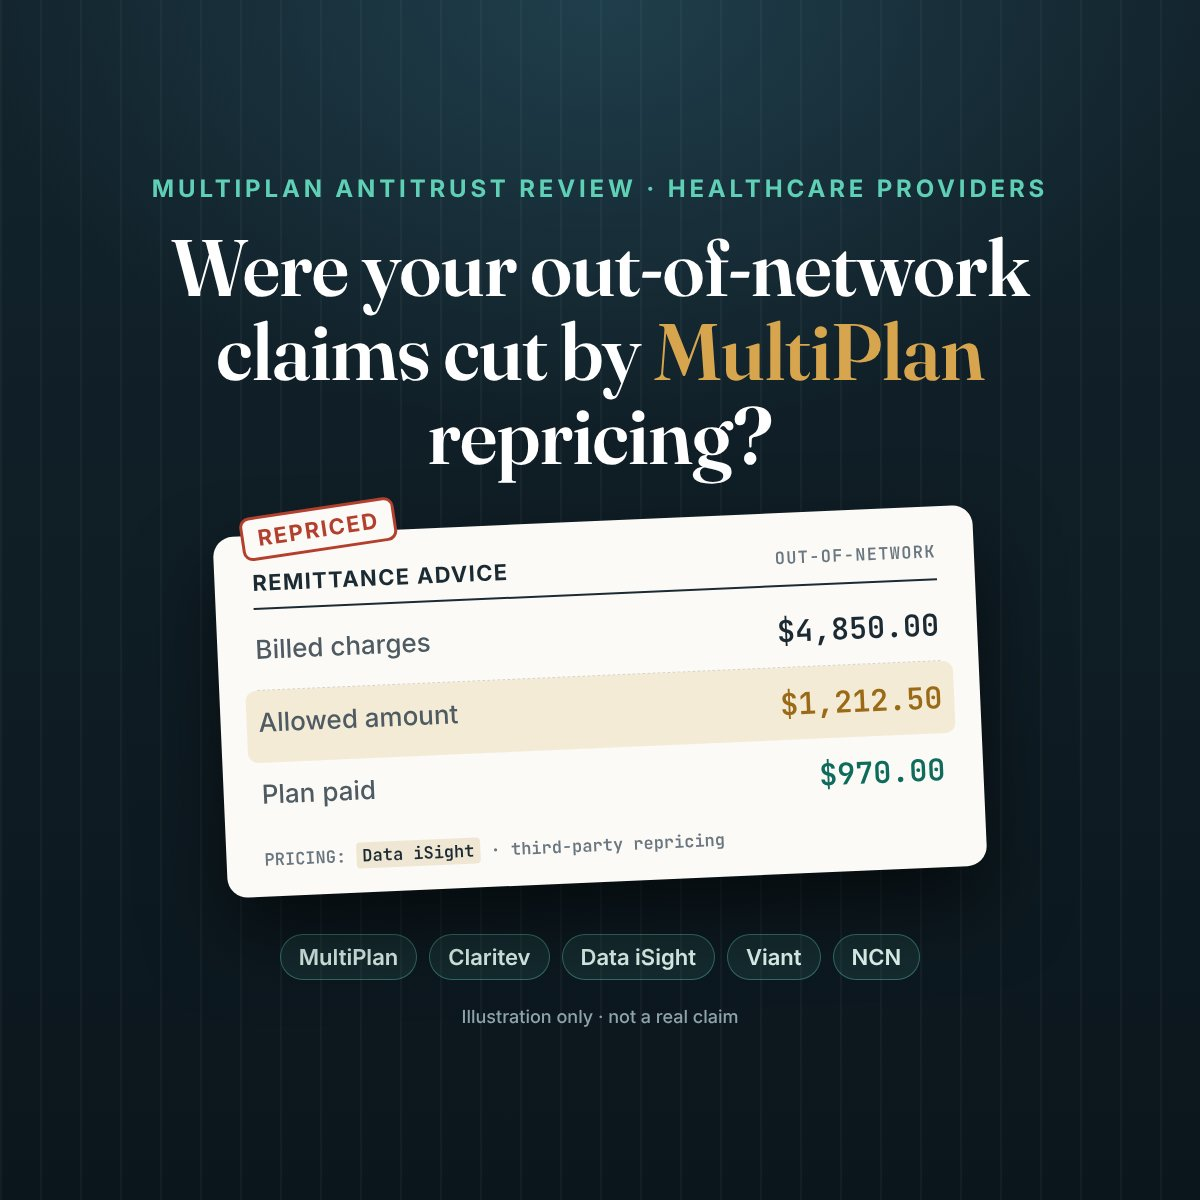
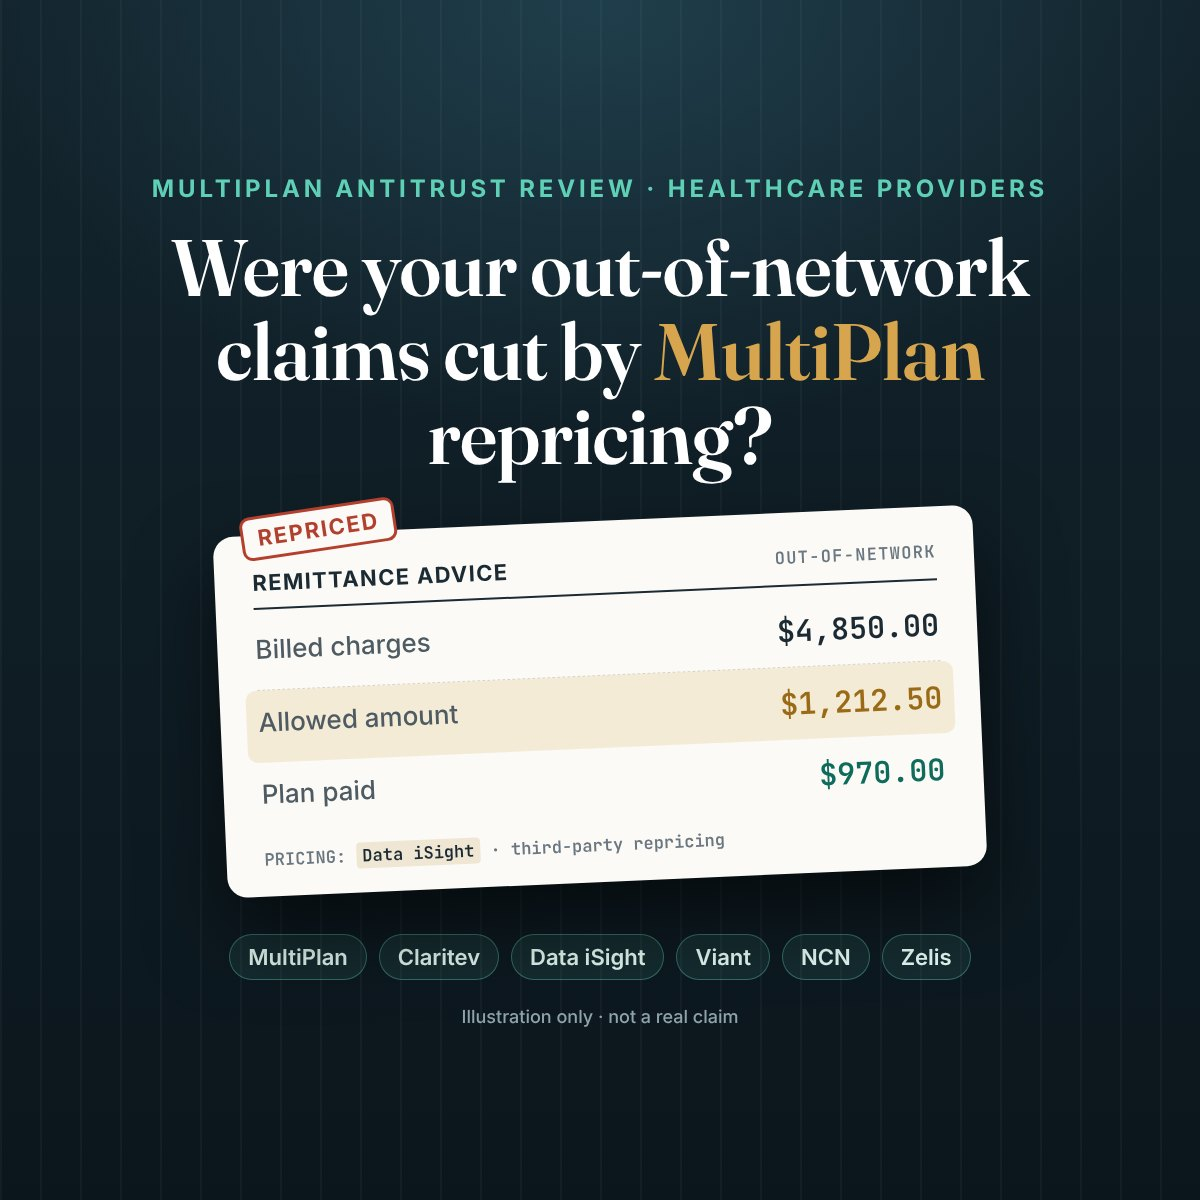
BTL MultiPlan: add Zelis, set thank-you expectation
- Zelis added to the remit chips, the who-qualifies bullet, the footer
  disclaimer and both share images (1200x630, 1200x1200).
- Thank-you step: "Devin's team will reach out shortly to schedule your
  call." Tier C (below $1M) is told the team will review and reach out
  if it fits, since only Tier A/B are emailed to the firm.

Claude-Session: https://claude.ai/code/session_015mggQXmXMJeJEzWMvFZhpm

Changed region(s): [[0.185, 0.7708, 0.8017, 0.8325]]

diff --git a/btl/vanderhahn/multiplan/index.html b/btl/vanderhahn/multiplan/index.html
@@ -251,7 +251,7 @@ footer a{color:#dbe6ea}
     <p class="eyebrow">MultiPlan antitrust review · For healthcare providers</p>
     <h1>Were your out-of-network claims cut by <em>MultiPlan</em> repricing?</h1>
     <p class="lede">Lawsuits allege MultiPlan (now Claritev) and major insurers worked together to push out-of-network payments down. Billed commercial plans out-of-network in <span style="white-space:nowrap">2015–2026?</span> Answer 3 quick questions to see if your practice may qualify.</p>
-    <div class="seen"><span>Seen these on your remits?</span><b>MultiPlan</b><b>Claritev</b><b>Data iSight</b><b>Viant</b><b>NCN</b></div>
+    <div class="seen"><span>Seen these on your remits?</span><b>MultiPlan</b><b>Claritev</b><b>Data iSight</b><b>Viant</b><b>NCN</b><b>Zelis</b></div>
     <div class="byline">
       <picture><source srcset="images/devin-avatar.webp" type="image/webp"><img src="images/devin-avatar.jpg" alt="Devin van der Hahn" width="46" height="46"></picture>
       <div><strong>Devin van der Hahn</strong><span>Managing Partner &amp; Founder, VanderHahn LLP</span></div>
@@ -348,7 +348,7 @@ footer a{color:#dbe6ea}
       <div class="step" data-step="done">
         <span class="result-badge">✓ Request received</span>
         <h3>Thanks. Devin's office has your details.</h3>
-        <p class="hint" id="doneMsg">You'll hear from Devin's office about confirming the criteria and setting up a time.</p>
+        <p class="hint" id="doneMsg">Devin's team will reach out shortly to schedule your call. Watch for a call or email from VanderHahn LLP.</p>
         <p class="hint" style="font-size:.8rem">Reference: <b id="receiptId">—</b></p>
         <a class="btn block" id="bookBtn" href="#" hidden>Pick a time with Devin →</a>
         <div class="ready" style="margin-top:18px"><b>Good to have ready for the call</b>
@@ -441,7 +441,7 @@ footer a{color:#dbe6ea}
         <p>Lawsuits allege that MultiPlan, now Claritev, and major insurers used shared repricing tools to push out-of-network payments down for more than a decade, costing providers billions of dollars.</p>
         <ul class="points">
           <li><svg width="18" height="18" viewBox="0 0 24 24" fill="none" stroke="currentColor" stroke-width="2.5"><path d="M20 6 9 17l-5-5"/></svg><span>Billed commercial health plans out-of-network between 2015 and 2026</span></li>
-          <li><svg width="18" height="18" viewBox="0 0 24 24" fill="none" stroke="currentColor" stroke-width="2.5"><path d="M20 6 9 17l-5-5"/></svg><span>MultiPlan, Claritev, Data iSight, Viant or NCN on your remits, or allowed amounts far below what you billed</span></li>
+          <li><svg width="18" height="18" viewBox="0 0 24 24" fill="none" stroke="currentColor" stroke-width="2.5"><path d="M20 6 9 17l-5-5"/></svg><span>MultiPlan, Claritev, Data iSight, Viant, NCN or Zelis on your remits, or allowed amounts far below what you billed</span></li>
           <li><svg width="18" height="18" viewBox="0 0 24 24" fill="none" stroke="currentColor" stroke-width="2.5"><path d="M20 6 9 17l-5-5"/></svg><span>About $1 million a year in billed charges is a guide, not a hard cutoff</span></li>
           <li><svg width="18" height="18" viewBox="0 0 24 24" fill="none" stroke="currentColor" stroke-width="2.5"><path d="M20 6 9 17l-5-5"/></svg><span>Physician groups, facilities, labs and ambulance services can all fit</span></li>
         </ul>
@@ -498,7 +498,7 @@ footer a{color:#dbe6ea}
   <div class="wrap">
     <p><strong style="color:#fff">Attorney advertising.</strong> Responsible attorney: Devin van der Hahn, VanderHahn LLP. Best Tort Lawyers is a matching and intake service run by Marketing Apes LLC. It is not a law firm and gives no legal advice.</p>
     <p>This page doesn't show that a provider has a claim. The firm decides on review and representation itself. Submitting this form doesn't create an attorney-client relationship. No recovery or outcome is guaranteed, and prior results don't guarantee a similar outcome.</p>
-    <p>MultiPlan, Claritev, Data iSight, Viant and NCN are named only to describe the subject of the review. Descriptions of the litigation are allegations, not findings. This page isn't affiliated with or endorsed by any of them or by any health plan.</p>
+    <p>MultiPlan, Claritev, Data iSight, Viant, NCN and Zelis are named only to describe the subject of the review. Descriptions of the litigation are allegations, not findings. This page isn't affiliated with or endorsed by any of them or by any health plan.</p>
     <div class="flinks">
       <a href="https://besttortlawyers.com/privacy-policy/">Privacy policy</a>
       <a href="https://besttortlawyers.com/terms-and-conditions/">Terms</a>
@@ -626,6 +626,7 @@ footer a{color:#dbe6ea}
           document.querySelector('[data-step=done] h3').textContent='You look like a strong fit. Pick a time with Devin.';
           document.getElementById('doneMsg').textContent='Choose a time that works for you below. Devin’s office will confirm the details before the call.';
           track('ee_booking_offered',{prequal_tier:tier},true); }
+        if(tier==='C') document.getElementById('doneMsg').textContent='Devin\u2019s team will review your answers and reach out if your organization fits this review.';
         show('done');
       })
       .catch(function(x){ if(to) clearTimeout(to); track('ee_lead_submit_error',{error:String(x)}); btn.disabled=false; btn.textContent='Request a time with Devin →';
